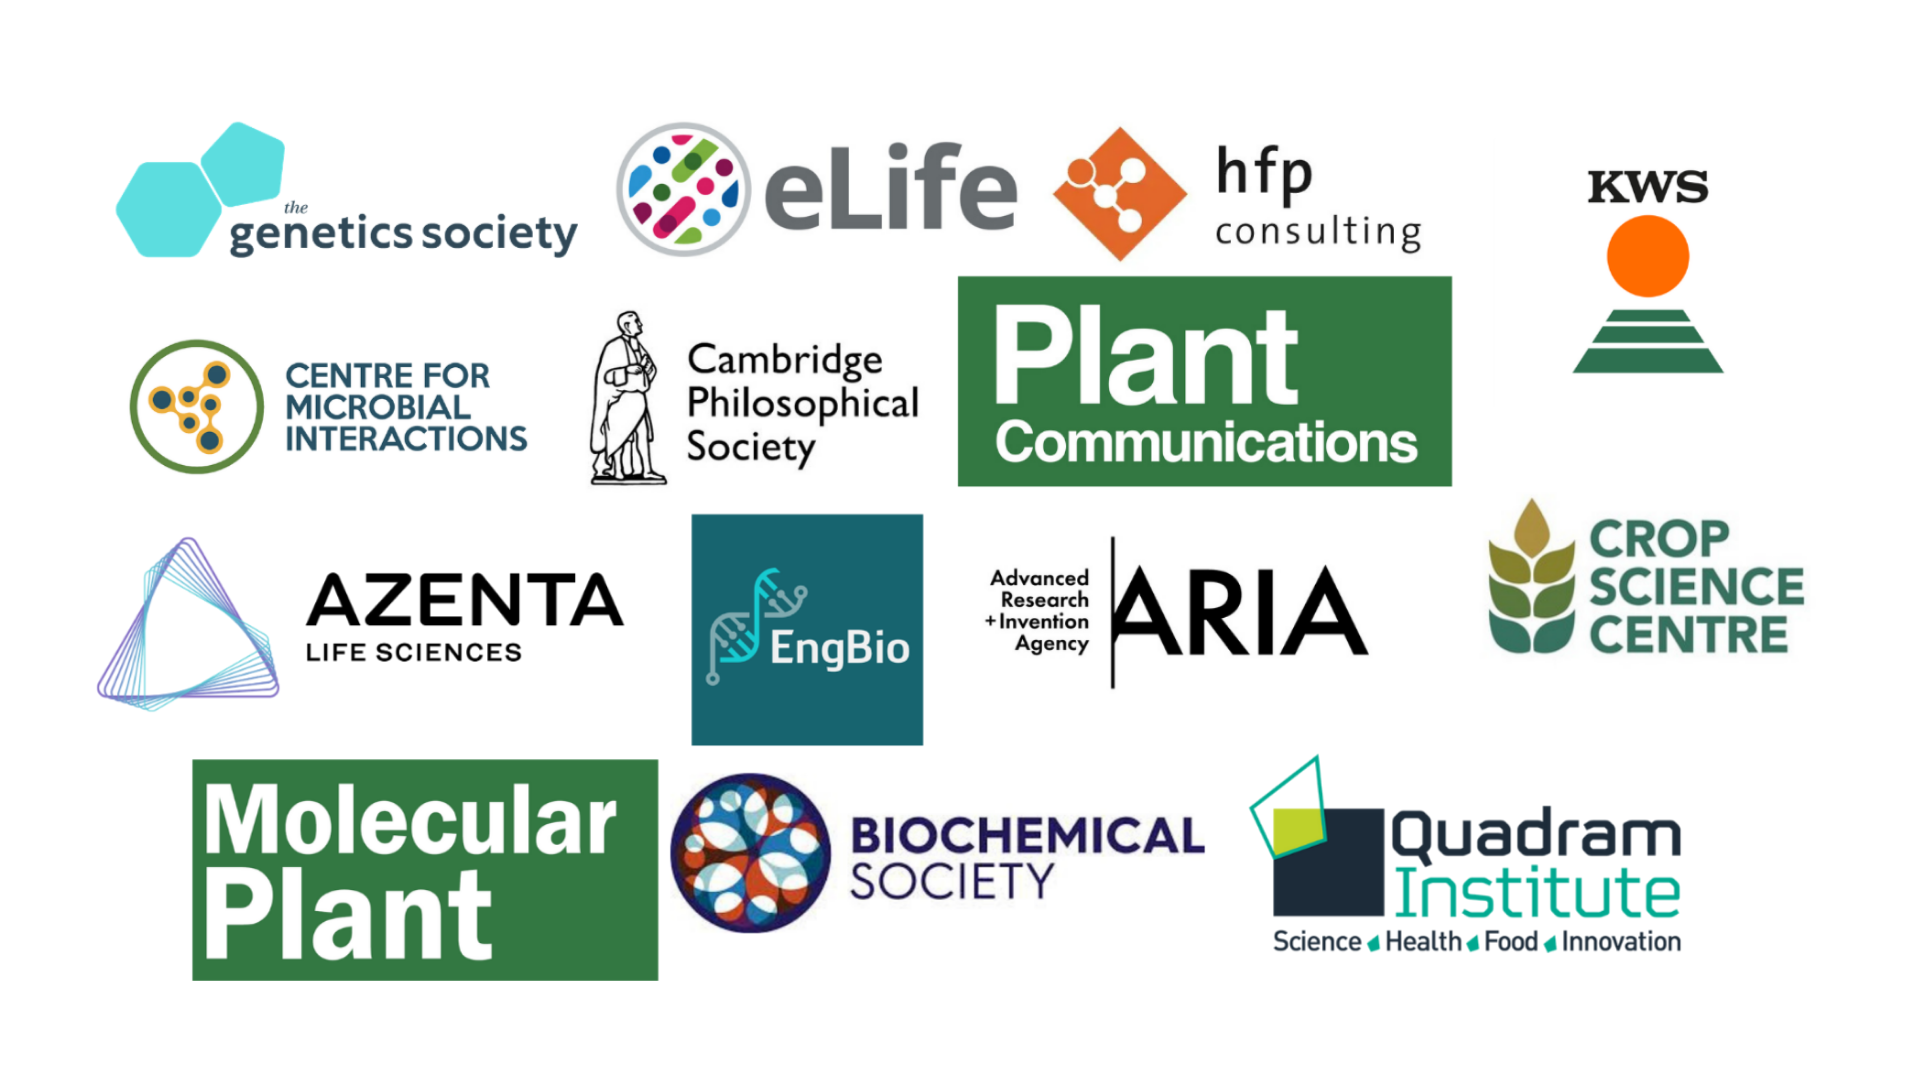
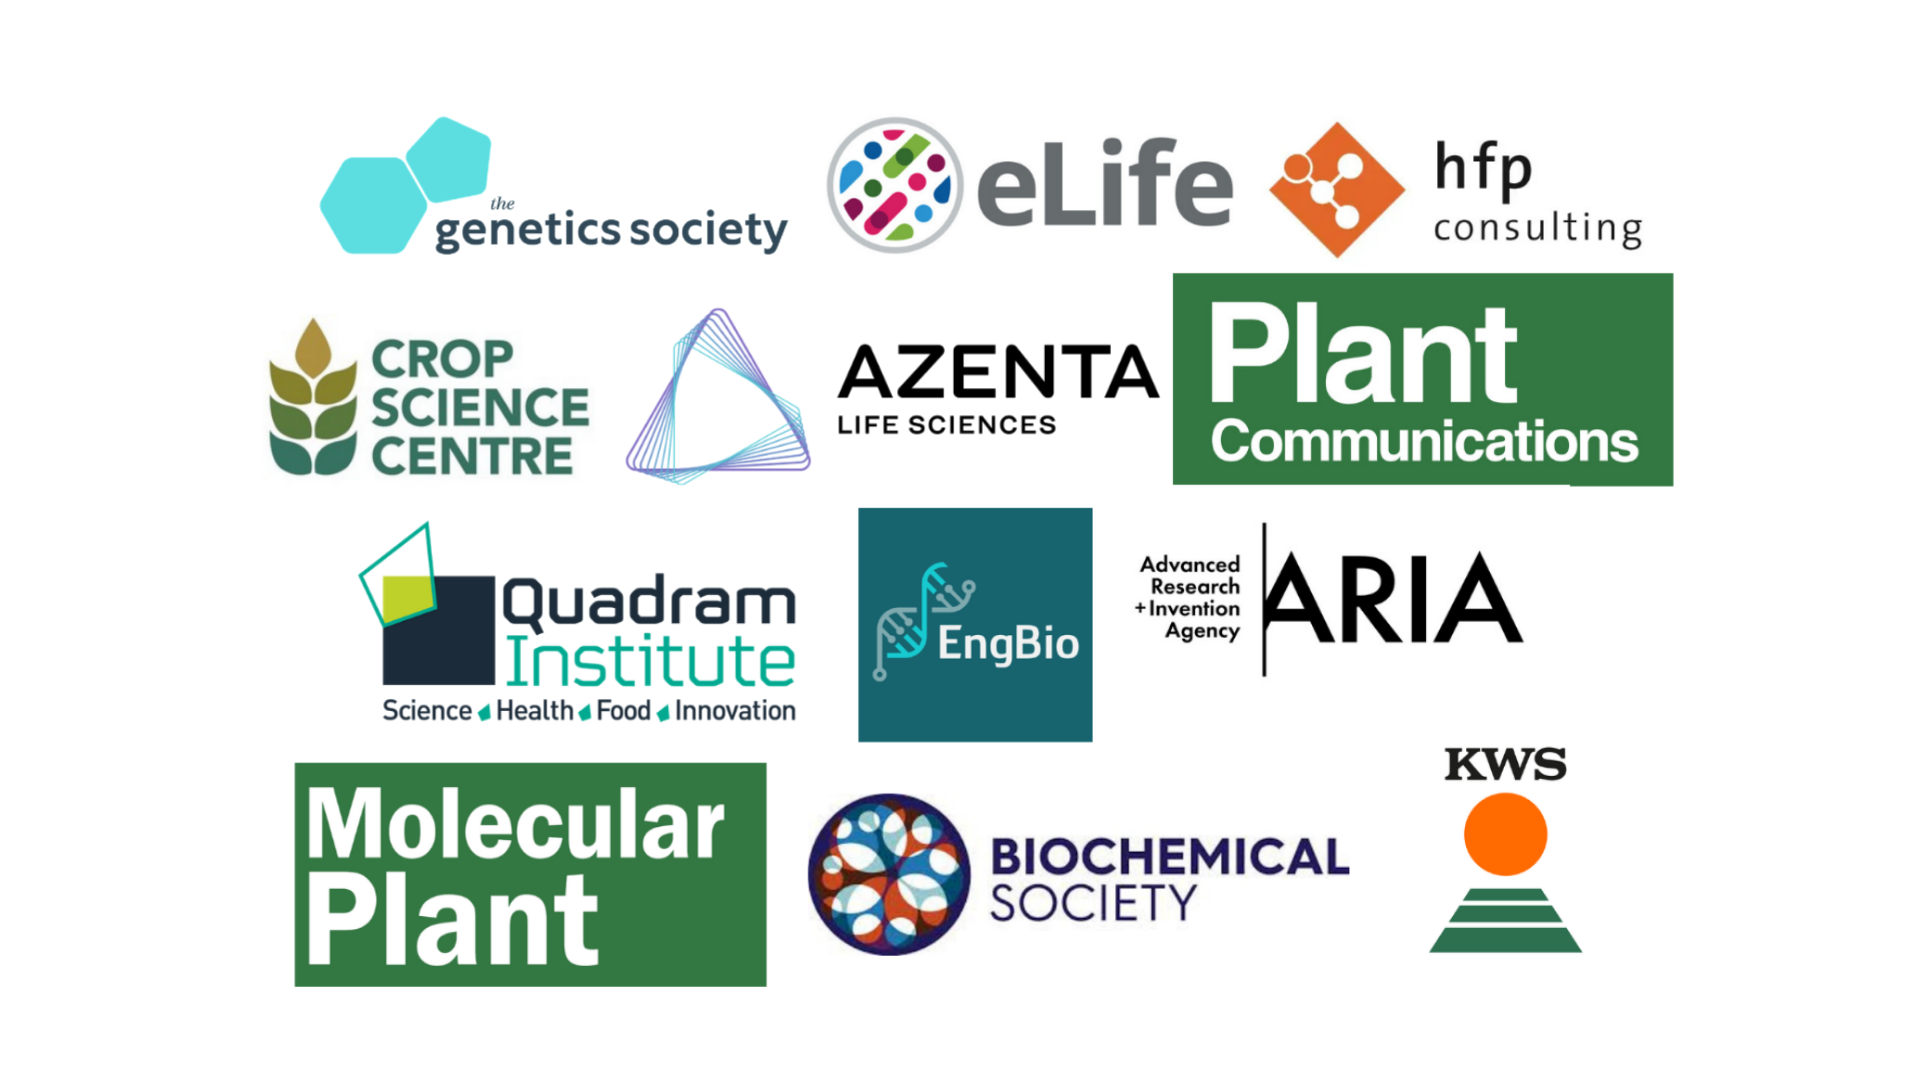
Sponsors updated

Changed region(s): [[0.0312, 0.0917, 0.9375, 0.9167]]

diff --git a/about.html b/about.html
@@ -42,7 +42,7 @@
           <div class="row">
             <div class="col-md-8 col-md-offset-2 col-lg-6 col-lg-offset-3 col-sm-10 col-sm-offset-1">
               <center><h1> NoCaSS 2026 </center>
-                <p style="text-align: justify;"> NoCaSS brings together early career researchers (ERCs) from the University of Cambridge and the Norwich Research Park to present our research and form new connections. It is unique in being organised by ERCs, for ERCs. Since its inception over a decade ago, it has grown into a highly anticipated annual event, bringing together over 120 participants last year. </p>
+                <p style="text-align: justify;"> NoCaSS brings together early career researchers (ECRs) from the University of Cambridge and the Norwich Research Park to present our research and form new connections. It is unique in being organised by ECRs, for ECRs. Since its inception over a decade ago, it has grown into a highly anticipated annual event, bringing together over 120 participants last year. </p>
                 <p style="text-align: justify;">This year, NoCaSS will take place on the 13th – 14th August 2026 at the John Innes Centre in Norwich. The symposium will span two days and feature student talks, poster sessions, workshops, industry presentations, and addresses from keynote speakers. 
 </p> </center>
                 </div>

diff --git a/acknowledgement.html b/acknowledgement.html
@@ -169,7 +169,6 @@
             </div>
             <br>
             <br>
-<!--
             <div align=left style="overflow: hidden;">
               <a target="_blank" href="https://http://www.cambridgephilosophicalsociety.org">
                 <img class="img-sponsor" style="width:200px" src="assets/img/camrbidgephilsophcalsociety.jpeg" alt="Cambridge Philosophical Society " align=left>
@@ -188,7 +187,6 @@
             </div>		  
             <br>
             <br>
-          -->
             <div align=left style="overflow: hidden;">
               <a target="_blank" href="https://www.neb.uk.com/">
                 <img class="img-sponsor" style="width:200px" src="assets/img/107-NEB-ib.jpg" alt="NEB" align="left">
